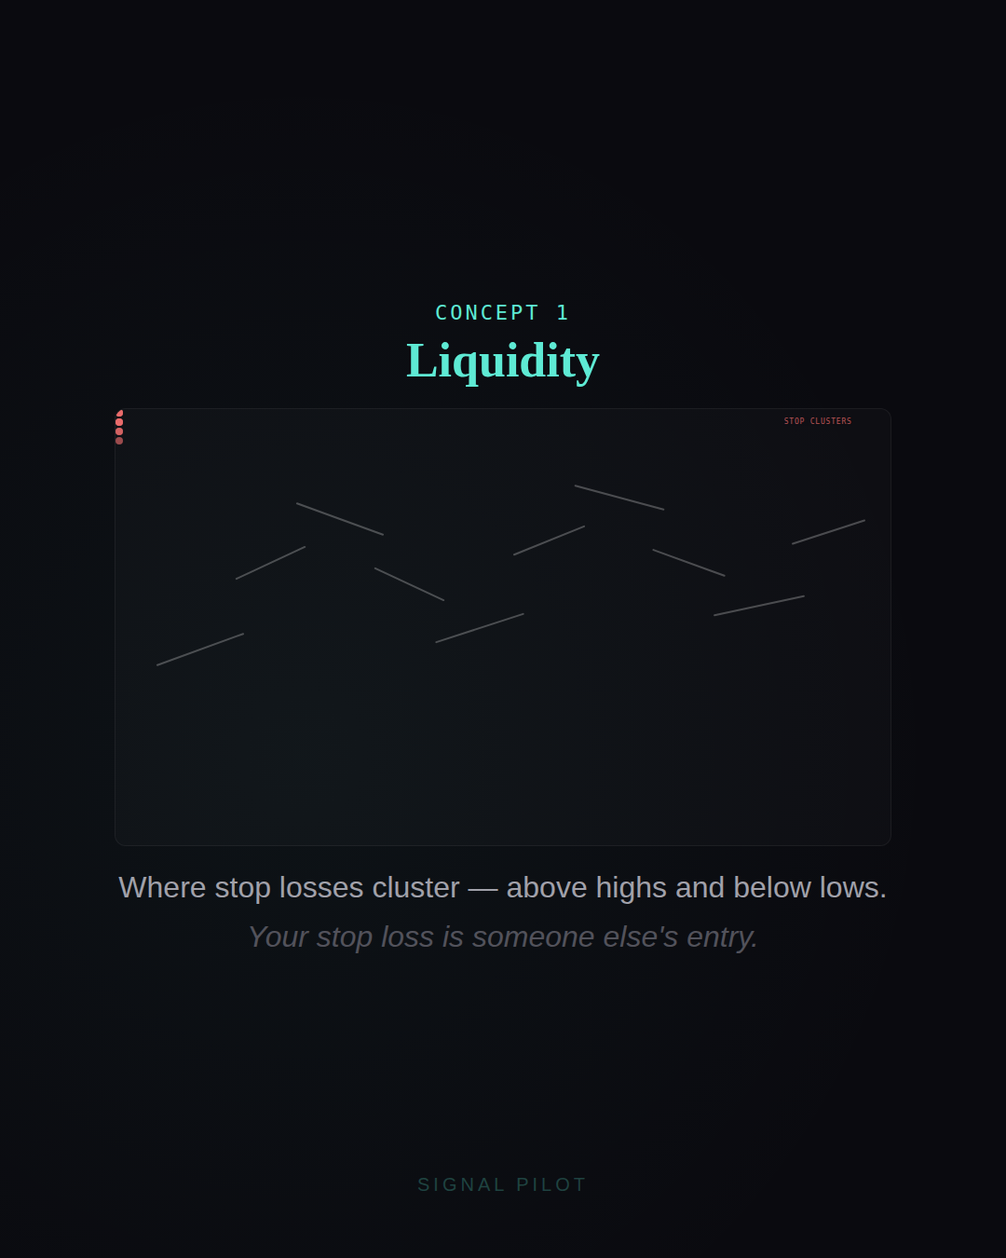
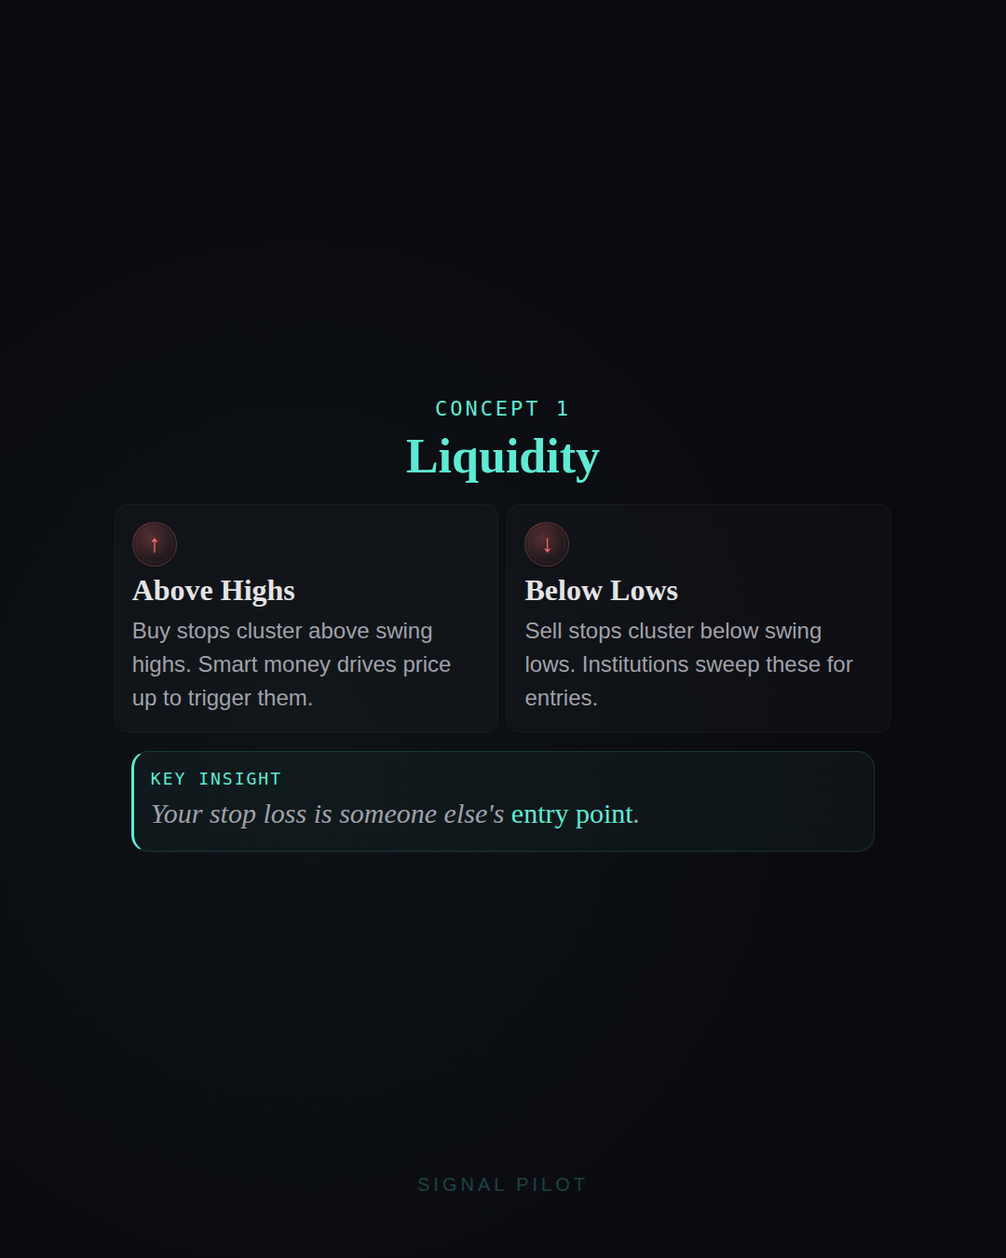
Rewrite post-047 replacing all 5 chart CSS art slides with rich components
Replaced CSS art in slides 2-6 of post-047 (Smart Money Concepts):
- Slide 2 (Liquidity): 10 rotated lines + dot clusters → factor cards + truth box
- Slide 3 (Inducement): 8 rotated lines + trap box → 3-step flow
- Slide 4 (Order Blocks): 10 rotated lines + zone → zone card + step flow
- Slide 5 (FVG): 10 candle divs + gap box → 3-column cards + zone card
- Slide 6 (BOS): 9 rotated lines + level → status display + truth box

Added renderer upscaling for: step-name, step-desc, s-num, zc-label,
zc-title, zc-desc.

https://claude.ai/code/session_011c39rV3HugQjQHFNWVfikw

diff --git a/INSTAGRAM_CONTENT_HUB/social/post-047/carousel.html b/INSTAGRAM_CONTENT_HUB/social/post-047/carousel.html
@@ -87,110 +87,71 @@ body{background:var(--bg);color:var(--txt);font-family:var(--sans);min-height:10
 .concept-num.cn-green{background:var(--green-l);border:1.5px solid var(--green-b);color:var(--green);}
 .concept-num.cn-purple{background:var(--purple-l);border:1.5px solid var(--purple-b);color:var(--purple);}
 
-/* ── Chart Box ── */
-.chart-box{width:92%;aspect-ratio:16/9;position:relative;background:rgba(255,255,255,0.02);border:1px solid rgba(255,255,255,0.06);border-radius:clamp(6px,1.2cqw,12px);margin-bottom:clamp(10px,2.5cqw,20px);overflow:hidden;}
-
-/* ── Chart Labels ── */
-.chart-label{position:absolute;font-family:var(--mono);font-size:clamp(5px,1cqw,8px);letter-spacing:0.1em;opacity:0.7;}
-
 /* ── Concept Descriptions ── */
 .concept-desc{width:92%;text-align:left;}
 .cd-main{font-size:clamp(9px,1.7cqw,13px);color:var(--txt2);line-height:1.5;margin-bottom:clamp(4px,0.8cqw,7px);}
 .cd-note{font-size:clamp(7px,1.3cqw,10px);color:var(--txt3);font-style:italic;line-height:1.4;}
 
-/* ─────────────────────────────────────
-   LIQUIDITY CHART (Slide 2)
-   ───────────────────────────────────── */
-.liq-line{position:absolute;height:2px;border-radius:1px;background:rgba(255,255,255,0.25);}
-.liq-line:nth-child(1){top:55%;left:5%;width:12%;transform:rotate(-20deg);}
-.liq-line:nth-child(2){top:35%;left:15%;width:10%;transform:rotate(-25deg);}
-.liq-line:nth-child(3){top:25%;left:23%;width:12%;transform:rotate(20deg);}
-.liq-line:nth-child(4){top:40%;left:33%;width:10%;transform:rotate(25deg);}
-.liq-line:nth-child(5){top:50%;left:41%;width:12%;transform:rotate(-18deg);}
-.liq-line:nth-child(6){top:30%;left:51%;width:10%;transform:rotate(-22deg);}
-.liq-line:nth-child(7){top:20%;left:59%;width:12%;transform:rotate(15deg);}
-.liq-line:nth-child(8){top:35%;left:69%;width:10%;transform:rotate(20deg);}
-.liq-line:nth-child(9){top:45%;left:77%;width:12%;transform:rotate(-12deg);}
-.liq-line:nth-child(10){top:28%;left:87%;width:10%;transform:rotate(-18deg);}
+/* ── Factor Cards ── */
+.factor-grid{width:92%;display:grid;gap:clamp(5px,1cqw,9px);margin-bottom:clamp(10px,2.5cqw,20px);}
+.factor-grid.fg-2{grid-template-columns:1fr 1fr;}
+.factor-grid.fg-3{grid-template-columns:1fr 1fr 1fr;}
+.factor-card{padding:clamp(10px,2cqw,18px);border-radius:clamp(8px,1.5cqw,14px);background:var(--surface);border:1px solid rgba(255,255,255,0.04);text-align:left;display:flex;flex-direction:column;gap:clamp(4px,0.8cqw,7px);}
+.factor-card .fc-icon{width:clamp(24px,4.5cqw,40px);height:clamp(24px,4.5cqw,40px);border-radius:50%;display:flex;align-items:center;justify-content:center;flex-shrink:0;position:relative;}
+.factor-card .fc-icon::before{content:'';position:absolute;inset:3px;border-radius:50%;}
+.factor-card .fc-icon .fc-let{font-family:var(--serif);font-size:clamp(10px,2cqw,16px);font-weight:600;position:relative;z-index:2;}
+.fc-red .fc-icon{background:radial-gradient(circle at 40% 35%,rgba(248,113,113,0.3) 0%,rgba(248,113,113,0.08) 60%,transparent 100%);border:1px solid rgba(248,113,113,0.25);}
+.fc-red .fc-icon::before{border:1px solid rgba(248,113,113,0.1);}
+.fc-red .fc-let{color:var(--red);}
+.fc-green .fc-icon{background:radial-gradient(circle at 40% 35%,rgba(74,222,128,0.3) 0%,rgba(74,222,128,0.08) 60%,transparent 100%);border:1px solid rgba(74,222,128,0.25);}
+.fc-green .fc-icon::before{border:1px solid rgba(74,222,128,0.1);}
+.fc-green .fc-let{color:var(--green);}
+.factor-card .fc-name{font-family:var(--serif);font-size:clamp(9px,1.8cqw,14px);font-weight:600;color:var(--txt);}
+.factor-card .fc-desc{font-size:clamp(7px,1.2cqw,10px);color:var(--txt2);line-height:1.4;}
 
-.liq-zone{position:absolute;height:10%;background:rgba(239,68,68,0.08);border-bottom:1.5px dashed rgba(239,68,68,0.3);}
-.liq-zone:nth-of-type(1){top:6%;left:18%;width:18%;}
-.liq-zone:nth-of-type(2){top:3%;left:54%;width:18%;}
+/* ── Step Flow ── */
+.step-flow{width:92%;display:flex;flex-direction:column;gap:clamp(4px,0.8cqw,7px);margin-bottom:clamp(10px,2.5cqw,20px);}
+.step-row{display:flex;align-items:center;gap:clamp(6px,1.2cqw,10px);padding:clamp(8px,1.6cqw,14px);border-radius:clamp(8px,1.5cqw,14px);background:var(--surface);border:1px solid rgba(255,255,255,0.04);}
+.step-ring{width:clamp(24px,4.5cqw,40px);height:clamp(24px,4.5cqw,40px);border-radius:50%;display:flex;align-items:center;justify-content:center;flex-shrink:0;}
+.step-ring .s-num{font-family:var(--mono);font-size:clamp(9px,1.8cqw,14px);font-weight:700;}
+.sr-amber{background:var(--amber-l);border:1.5px solid var(--amber-b);}
+.sr-amber .s-num{color:var(--amber);}
+.sr-red{background:var(--red-l);border:1.5px solid var(--red-b);}
+.sr-red .s-num{color:var(--red);}
+.sr-green{background:var(--green-l);border:1.5px solid var(--green-b);}
+.sr-green .s-num{color:var(--green);}
+.step-info{text-align:left;flex:1;}
+.step-name{font-family:var(--serif);font-size:clamp(9px,1.8cqw,14px);font-weight:600;color:var(--txt);margin-bottom:clamp(1px,0.2cqw,3px);}
+.step-desc{font-size:clamp(7px,1.2cqw,10px);color:var(--txt2);line-height:1.4;}
 
-.liq-cluster{position:absolute;display:flex;gap:2px;flex-direction:column;align-items:center;}
-.liq-dot{width:clamp(4px,0.8cqw,8px);height:clamp(4px,0.8cqw,8px);border-radius:50%;background:var(--red);opacity:0.6;}
-.liq-cluster:nth-of-type(1){top:8%;left:24%;}
-.liq-cluster:nth-of-type(2){top:5%;left:60%;}
-.liq-cluster:nth-of-type(3){top:10%;left:88%;}
+/* ── Zone Card ── */
+.zone-card{width:92%;padding:clamp(12px,2.5cqw,22px);border-radius:clamp(10px,2cqw,18px);text-align:center;display:flex;flex-direction:column;align-items:center;gap:clamp(4px,0.8cqw,7px);margin-bottom:clamp(10px,2.5cqw,20px);}
+.zone-card.zc-green{background:var(--green-l);border:1.5px solid var(--green-b);}
+.zone-card.zc-purple{background:var(--purple-l);border:1.5px solid var(--purple-b);}
+.zone-card .zc-label{font-family:var(--mono);font-size:clamp(6px,1.1cqw,9px);letter-spacing:0.15em;text-transform:uppercase;}
+.zc-green .zc-label{color:var(--green);}
+.zc-purple .zc-label{color:var(--purple);}
+.zone-card .zc-title{font-family:var(--serif);font-size:clamp(14px,3.2cqw,26px);font-weight:600;color:var(--txt);}
+.zone-card .zc-desc{font-size:clamp(8px,1.5cqw,12px);color:var(--txt2);line-height:1.4;}
 
-/* ─────────────────────────────────────
-   INDUCEMENT CHART (Slide 3)
-   ───────────────────────────────────── */
-.ind-line{position:absolute;height:2px;border-radius:1px;}
-.ind-line:nth-child(1){top:60%;left:5%;width:15%;background:rgba(255,255,255,0.25);transform:rotate(-15deg);}
-.ind-line:nth-child(2){top:45%;left:18%;width:12%;background:rgba(255,255,255,0.25);transform:rotate(-20deg);}
-.ind-line:nth-child(3){top:30%;left:28%;width:15%;background:rgba(255,255,255,0.25);transform:rotate(5deg);}
-.ind-line:nth-child(4){top:35%;left:41%;width:10%;background:rgba(255,255,255,0.25);transform:rotate(15deg);}
-.ind-line:nth-child(5){top:18%;left:49%;width:8%;background:var(--red);transform:rotate(-50deg);opacity:0.8;}
-.ind-line:nth-child(6){top:25%;left:55%;width:12%;background:var(--red);transform:rotate(35deg);opacity:0.7;}
-.ind-line:nth-child(7){top:45%;left:64%;width:14%;background:var(--red);transform:rotate(20deg);opacity:0.6;}
-.ind-line:nth-child(8){top:60%;left:76%;width:12%;background:var(--red);transform:rotate(15deg);opacity:0.5;}
+/* ── Status Display ── */
+.status-display{width:88%;display:flex;align-items:center;justify-content:center;gap:clamp(6px,1.2cqw,10px);margin-bottom:clamp(12px,3cqw,24px);}
+.status-box{flex:1;padding:clamp(10px,2cqw,18px) clamp(6px,1.2cqw,10px);border-radius:clamp(8px,1.5cqw,14px);text-align:center;display:flex;flex-direction:column;align-items:center;gap:clamp(3px,0.6cqw,6px);}
+.status-box .sb-val{font-family:var(--serif);font-size:clamp(14px,3.2cqw,24px);font-weight:600;}
+.status-box .sb-lbl{font-family:var(--mono);font-size:clamp(6px,1.1cqw,9px);letter-spacing:0.15em;text-transform:uppercase;}
+.sb-teal{background:var(--teal-l);border:1.5px solid var(--teal-b);}
+.sb-teal .sb-val{color:var(--teal);}
+.sb-teal .sb-lbl{color:rgba(94,234,212,0.7);}
+.sb-none{background:rgba(255,255,255,0.01);border:1.5px dashed rgba(255,255,255,0.08);}
+.sb-none .sb-val{color:var(--txt3);}
+.sb-none .sb-lbl{color:var(--txt3);}
+.status-vs{font-family:var(--serif);font-size:clamp(12px,2.5cqw,20px);color:var(--txt3);flex-shrink:0;}
 
-.ind-resistance{position:absolute;top:25%;left:5%;width:55%;height:0;border-top:1.5px dashed rgba(245,158,11,0.4);}
-.ind-trap{position:absolute;top:10%;left:45%;width:16%;height:15%;background:rgba(239,68,68,0.08);border:1px dashed rgba(239,68,68,0.25);border-radius:clamp(4px,0.8cqw,8px);display:flex;align-items:center;justify-content:center;}
-.ind-trap-text{font-family:var(--mono);font-size:clamp(5px,0.9cqw,9px);color:var(--red);opacity:0.8;text-transform:uppercase;letter-spacing:0.1em;}
-
-/* ─────────────────────────────────────
-   ORDER BLOCKS CHART (Slide 4)
-   ───────────────────────────────────── */
-.ob-line{position:absolute;height:2px;border-radius:1px;background:rgba(255,255,255,0.25);}
-.ob-line:nth-child(1){top:50%;left:5%;width:10%;transform:rotate(-8deg);}
-.ob-line:nth-child(2){top:45%;left:14%;width:8%;transform:rotate(5deg);}
-.ob-line:nth-child(3){top:50%;left:21%;width:10%;transform:rotate(10deg);}
-.ob-line:nth-child(4){top:40%;left:36%;width:8%;background:var(--green);transform:rotate(-25deg);}
-.ob-line:nth-child(5){top:25%;left:42%;width:10%;background:var(--green);transform:rotate(-20deg);}
-.ob-line:nth-child(6){top:15%;left:50%;width:12%;background:var(--green);transform:rotate(-10deg);}
-.ob-line:nth-child(7){top:18%;left:60%;width:10%;background:rgba(255,255,255,0.2);transform:rotate(18deg);}
-.ob-line:nth-child(8){top:30%;left:68%;width:8%;background:rgba(255,255,255,0.2);transform:rotate(15deg);}
-.ob-line:nth-child(9){top:42%;left:74%;width:10%;background:var(--green);transform:rotate(-20deg);}
-.ob-line:nth-child(10){top:28%;left:82%;width:12%;background:var(--green);transform:rotate(-15deg);}
-
-.ob-zone{position:absolute;top:45%;left:28%;width:60%;height:14%;background:rgba(74,222,128,0.08);border:1.5px solid rgba(74,222,128,0.25);border-radius:clamp(4px,0.8cqw,8px);}
-
-/* ─────────────────────────────────────
-   FVG CHART (Slide 5)
-   ───────────────────────────────────── */
-.fvg-candle{position:absolute;width:clamp(6px,1.4cqw,14px);border-radius:2px;}
-.fvg-candle:nth-child(1){left:10%;top:40%;height:15%;background:rgba(255,255,255,0.2);}
-.fvg-candle:nth-child(2){left:18%;top:35%;height:18%;background:rgba(255,255,255,0.2);}
-.fvg-candle:nth-child(3){left:26%;top:30%;height:12%;background:var(--green);opacity:0.6;}
-.fvg-candle:nth-child(4){left:34%;top:10%;height:30%;background:var(--green);opacity:0.7;}
-.fvg-candle:nth-child(5){left:42%;top:15%;height:18%;background:var(--green);opacity:0.6;}
-.fvg-candle:nth-child(6){left:50%;top:20%;height:12%;background:rgba(255,255,255,0.2);}
-.fvg-candle:nth-child(7){left:58%;top:25%;height:15%;background:rgba(255,255,255,0.2);}
-.fvg-candle:nth-child(8){left:66%;top:30%;height:12%;background:rgba(239,68,68,0.5);}
-.fvg-candle:nth-child(9){left:74%;top:28%;height:10%;background:rgba(255,255,255,0.2);}
-.fvg-candle:nth-child(10){left:82%;top:22%;height:14%;background:var(--green);opacity:0.5;}
-
-.fvg-gap{position:absolute;top:33%;left:30%;width:28%;height:10%;background:rgba(168,85,247,0.1);border:1.5px solid rgba(168,85,247,0.35);border-radius:clamp(3px,0.6cqw,6px);}
-.fvg-fill-arrow{position:absolute;top:35%;right:22%;font-size:clamp(10px,2cqw,20px);color:var(--purple);opacity:0.5;transform:rotate(180deg);}
-
-/* ─────────────────────────────────────
-   BOS CHART (Slide 6)
-   ───────────────────────────────────── */
-.bos-line{position:absolute;height:2px;border-radius:1px;background:rgba(255,255,255,0.25);}
-.bos-line:nth-child(1){top:25%;left:5%;width:12%;transform:rotate(15deg);}
-.bos-line:nth-child(2){top:35%;left:15%;width:10%;transform:rotate(-12deg);}
-.bos-line:nth-child(3){top:30%;left:23%;width:12%;transform:rotate(18deg);}
-.bos-line:nth-child(4){top:45%;left:33%;width:10%;transform:rotate(-10deg);}
-.bos-line:nth-child(5){top:40%;left:41%;width:12%;transform:rotate(14deg);}
-.bos-line:nth-child(6){top:52%;left:51%;width:10%;transform:rotate(-8deg);}
-.bos-line:nth-child(7){top:45%;left:59%;width:10%;background:var(--teal);transform:rotate(-25deg);}
-.bos-line:nth-child(8){top:30%;left:67%;width:12%;background:var(--teal);transform:rotate(-18deg);}
-.bos-line:nth-child(9){top:18%;left:77%;width:14%;background:var(--teal);transform:rotate(-8deg);}
-
-.bos-level{position:absolute;top:32%;left:5%;width:70%;height:0;border-top:1.5px dashed rgba(94,234,212,0.3);}
-.bos-marker{position:absolute;top:22%;left:62%;font-family:var(--mono);font-size:clamp(7px,1.3cqw,13px);font-weight:600;color:var(--teal);background:rgba(94,234,212,0.1);padding:clamp(2px,0.4cqw,4px) clamp(6px,1.2cqw,12px);border-radius:4px;border:1px solid rgba(94,234,212,0.3);}
+/* ── Truth Box ── */
+.truth-box{width:88%;padding:clamp(10px,2cqw,18px);border-radius:clamp(10px,2cqw,18px);background:rgba(94,234,212,0.04);border:1px solid rgba(94,234,212,0.15);border-left:3px solid var(--teal);text-align:left;margin-bottom:clamp(6px,1.2cqw,10px);}
+.truth-box .tb-label{font-family:var(--mono);font-size:clamp(5px,1cqw,8px);letter-spacing:0.15em;text-transform:uppercase;color:var(--teal);margin-bottom:clamp(2px,0.4cqw,4px);}
+.truth-box .tb-text{font-family:var(--serif);font-size:clamp(9px,1.8cqw,14px);font-style:italic;color:var(--txt2);line-height:1.5;}
+.truth-box .tb-text em{font-style:normal;color:var(--teal);}
 
 /* ── Orb Small ── */
 .orb-sm{position:relative;width:clamp(56px,11cqw,100px);height:clamp(56px,11cqw,100px);border-radius:50%;background:radial-gradient(circle at 40% 35%,rgba(94,234,212,0.3) 0%,rgba(94,234,212,0.1) 40%,rgba(255,255,255,0.03) 70%,transparent 100%);border:2px solid rgba(94,234,212,0.25);box-shadow:0 0 40px rgba(94,234,212,0.1),inset 0 0 20px rgba(94,234,212,0.06);display:flex;align-items:center;justify-content:center;margin-bottom:clamp(8px,2cqw,16px);}
@@ -271,21 +232,22 @@ body.export-mode .export-nav{display:flex;}
       <div class="sec-tag">CONCEPT 1</div>
       <div class="sec-title"><em>Liquidity</em></div>
 
-      <div class="chart-box">
-        <div class="liq-line"></div><div class="liq-line"></div><div class="liq-line"></div>
-        <div class="liq-line"></div><div class="liq-line"></div><div class="liq-line"></div>
-        <div class="liq-line"></div><div class="liq-line"></div><div class="liq-line"></div>
-        <div class="liq-line"></div>
-        <div class="liq-zone"></div><div class="liq-zone"></div>
-        <div class="liq-cluster"><div class="liq-dot"></div><div class="liq-dot"></div><div class="liq-dot"></div></div>
-        <div class="liq-cluster"><div class="liq-dot"></div><div class="liq-dot"></div><div class="liq-dot"></div><div class="liq-dot"></div></div>
-        <div class="liq-cluster"><div class="liq-dot"></div><div class="liq-dot"></div></div>
-        <span class="chart-label" style="top:2%;right:5%;color:var(--red);">STOP CLUSTERS</span>
+      <div class="factor-grid fg-2">
+        <div class="factor-card fc-red">
+          <div class="fc-icon"><span class="fc-let">&uarr;</span></div>
+          <div class="fc-name">Above Highs</div>
+          <div class="fc-desc">Buy stops cluster above swing highs. Smart money drives price up to trigger them.</div>
+        </div>
+        <div class="factor-card fc-red">
+          <div class="fc-icon"><span class="fc-let">&darr;</span></div>
+          <div class="fc-name">Below Lows</div>
+          <div class="fc-desc">Sell stops cluster below swing lows. Institutions sweep these for entries.</div>
+        </div>
       </div>
 
-      <div class="concept-desc">
-        <p class="cd-main">Where stop losses cluster — above highs and below lows.</p>
-        <p class="cd-note">Your stop loss is someone else's entry.</p>
+      <div class="truth-box">
+        <div class="tb-label">KEY INSIGHT</div>
+        <div class="tb-text">Your stop loss is someone else's <em>entry point</em>.</div>
       </div>
 
       <span class="brand-mark">SIGNAL PILOT</span>
@@ -301,13 +263,28 @@ body.export-mode .export-nav{display:flex;}
       <div class="sec-tag">CONCEPT 2</div>
       <div class="sec-title"><em>Inducement</em></div>
 
-      <div class="chart-box">
-        <div class="ind-line"></div><div class="ind-line"></div><div class="ind-line"></div>
-        <div class="ind-line"></div><div class="ind-line"></div><div class="ind-line"></div>
-        <div class="ind-line"></div><div class="ind-line"></div>
-        <div class="ind-resistance"></div>
-        <span class="chart-label" style="top:21%;left:5%;color:var(--amber);">RESISTANCE</span>
-        <div class="ind-trap"><span class="ind-trap-text">TRAP</span></div>
+      <div class="step-flow">
+        <div class="step-row">
+          <div class="step-ring sr-amber"><span class="s-num">1</span></div>
+          <div class="step-info">
+            <div class="step-name">Fake Breakout</div>
+            <div class="step-desc">Price breaks a key level — looks like a real move.</div>
+          </div>
+        </div>
+        <div class="step-row">
+          <div class="step-ring sr-red"><span class="s-num">2</span></div>
+          <div class="step-info">
+            <div class="step-name">Retail Trapped</div>
+            <div class="step-desc">Traders enter on the breakout. Stops are placed.</div>
+          </div>
+        </div>
+        <div class="step-row">
+          <div class="step-ring sr-green"><span class="s-num">3</span></div>
+          <div class="step-info">
+            <div class="step-name">Reversal</div>
+            <div class="step-desc">Smart money reverses. Stops swept. Real move begins.</div>
+          </div>
+        </div>
       </div>
 
       <div class="concept-desc">
@@ -328,18 +305,27 @@ body.export-mode .export-nav{display:flex;}
       <div class="sec-tag">CONCEPT 3</div>
       <div class="sec-title">Order <em>Blocks</em></div>
 
-      <div class="chart-box">
-        <div class="ob-line"></div><div class="ob-line"></div><div class="ob-line"></div>
-        <div class="ob-line"></div><div class="ob-line"></div><div class="ob-line"></div>
-        <div class="ob-line"></div><div class="ob-line"></div><div class="ob-line"></div>
-        <div class="ob-line"></div>
-        <div class="ob-zone"></div>
-        <span class="chart-label" style="top:61%;left:30%;color:var(--green);">ORDER BLOCK</span>
+      <div class="zone-card zc-green">
+        <div class="zc-label">INSTITUTIONAL ZONE</div>
+        <div class="zc-title">Order Block</div>
+        <div class="zc-desc">The last candle before a strong move — where institutions positioned their orders.</div>
       </div>
 
-      <div class="concept-desc">
-        <p class="cd-main">Zones where institutions positioned before a strong move.</p>
-        <p class="cd-note">Price often returns to OBs before continuing.</p>
+      <div class="step-flow">
+        <div class="step-row">
+          <div class="step-ring sr-green"><span class="s-num">1</span></div>
+          <div class="step-info">
+            <div class="step-name">Strong Move Away</div>
+            <div class="step-desc">Institutions push price aggressively from the OB zone.</div>
+          </div>
+        </div>
+        <div class="step-row">
+          <div class="step-ring sr-green"><span class="s-num">2</span></div>
+          <div class="step-info">
+            <div class="step-name">Price Returns</div>
+            <div class="step-desc">Price comes back to fill remaining orders. Entry opportunity.</div>
+          </div>
+        </div>
       </div>
 
       <span class="brand-mark">SIGNAL PILOT</span>
@@ -355,19 +341,24 @@ body.export-mode .export-nav{display:flex;}
       <div class="sec-tag">CONCEPT 4</div>
       <div class="sec-title">Fair Value <em>Gap</em></div>
 
-      <div class="chart-box">
-        <div class="fvg-candle"></div><div class="fvg-candle"></div><div class="fvg-candle"></div>
-        <div class="fvg-candle"></div><div class="fvg-candle"></div><div class="fvg-candle"></div>
-        <div class="fvg-candle"></div><div class="fvg-candle"></div><div class="fvg-candle"></div>
-        <div class="fvg-candle"></div>
-        <div class="fvg-gap"></div>
-        <span class="chart-label" style="top:45%;left:32%;color:var(--purple);">FVG</span>
-        <div class="fvg-fill-arrow">↓</div>
+      <div class="factor-grid fg-3">
+        <div class="factor-card">
+          <div class="fc-name" style="text-align:center;color:var(--txt2);">Candle 1</div>
+          <div class="fc-desc" style="text-align:center;">Normal range</div>
+        </div>
+        <div class="factor-card" style="border-color:rgba(168,85,247,0.25);background:var(--purple-l);">
+          <div class="fc-name" style="text-align:center;color:var(--purple);">THE GAP</div>
+          <div class="fc-desc" style="text-align:center;color:rgba(168,85,247,0.7);">Imbalance zone</div>
+        </div>
+        <div class="factor-card">
+          <div class="fc-name" style="text-align:center;color:var(--txt2);">Candle 3</div>
+          <div class="fc-desc" style="text-align:center;">Continues move</div>
+        </div>
       </div>
 
-      <div class="concept-desc">
-        <p class="cd-main">Imbalances from rapid moves — gaps that get revisited.</p>
-        <p class="cd-note">Price tends to fill these gaps before continuing.</p>
+      <div class="zone-card zc-purple">
+        <div class="zc-label">FAIR VALUE GAP</div>
+        <div class="zc-desc">Price moves too fast, leaving a gap. Price tends to return and fill the imbalance before continuing.</div>
       </div>
 
       <span class="brand-mark">SIGNAL PILOT</span>
@@ -383,18 +374,26 @@ body.export-mode .export-nav{display:flex;}
       <div class="sec-tag">CONCEPT 5</div>
       <div class="sec-title">Break of <em>Structure</em></div>
 
-      <div class="chart-box">
-        <div class="bos-line"></div><div class="bos-line"></div><div class="bos-line"></div>
-        <div class="bos-line"></div><div class="bos-line"></div><div class="bos-line"></div>
-        <div class="bos-line"></div><div class="bos-line"></div><div class="bos-line"></div>
-        <div class="bos-level"></div>
-        <span class="chart-label" style="top:28%;left:5%;color:var(--teal);">STRUCTURE</span>
-        <div class="bos-marker">BOS ↑</div>
+      <div class="status-display">
+        <div class="status-box sb-none">
+          <div class="sb-val">OLD</div>
+          <div class="sb-lbl">STRUCTURE</div>
+        </div>
+        <div class="status-vs">&rarr;</div>
+        <div class="status-box sb-teal">
+          <div class="sb-val">BOS</div>
+          <div class="sb-lbl">CONFIRMED</div>
+        </div>
+        <div class="status-vs">&rarr;</div>
+        <div class="status-box sb-teal">
+          <div class="sb-val">NEW</div>
+          <div class="sb-lbl">DIRECTION</div>
+        </div>
       </div>
 
-      <div class="concept-desc">
-        <p class="cd-main">Confirmation of a direction change in market structure.</p>
-        <p class="cd-note">BOS confirms the shift — trade with the new direction.</p>
+      <div class="truth-box">
+        <div class="tb-label">THE CONFIRMATION</div>
+        <div class="tb-text">A Break of Structure <em>confirms</em> the direction change. Trade with the new structure.</div>
       </div>
 
       <span class="brand-mark">SIGNAL PILOT</span>

diff --git a/scripts/render-carousels.js b/scripts/render-carousels.js
@@ -844,6 +844,34 @@ async function renderCarousel(page, postDir, postNumber) {
         font-size: clamp(16px, 4cqw, 24px) !important;
       }
 
+      /* --- Step Flow (post-047 pattern) --- */
+      .step-name {
+        font-size: clamp(20px, 5cqw, 30px) !important;
+      }
+      .step-desc {
+        font-size: clamp(16px, 4cqw, 24px) !important;
+        line-height: 1.5 !important;
+      }
+      .step-ring .s-num {
+        font-size: clamp(18px, 4.5cqw, 26px) !important;
+      }
+      .step-row {
+        padding: clamp(14px, 2.8cqw, 24px) clamp(12px, 2.5cqw, 20px) !important;
+      }
+
+      /* --- Zone Card (post-047 pattern) --- */
+      .zone-card .zc-label {
+        font-size: clamp(12px, 3cqw, 18px) !important;
+        letter-spacing: 2px !important;
+      }
+      .zone-card .zc-title {
+        font-size: clamp(28px, 7cqw, 42px) !important;
+      }
+      .zone-card .zc-desc {
+        font-size: clamp(18px, 4.5cqw, 26px) !important;
+        line-height: 1.5 !important;
+      }
+
       /* --- Stop loss elements (post-046 pattern) --- */
       .stop-desc {
         font-size: clamp(20px, 5cqw, 30px) !important;
